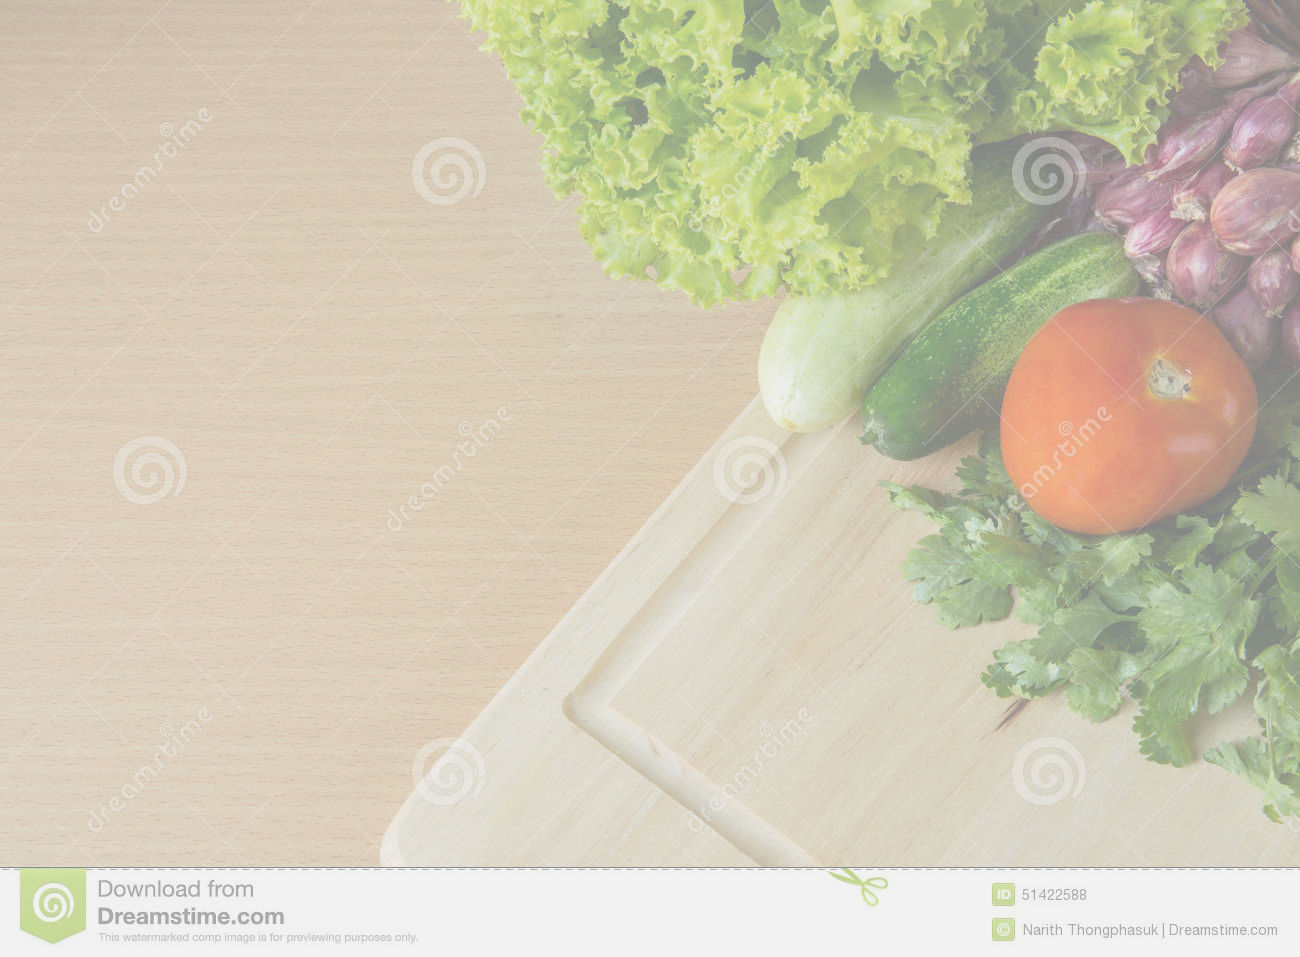
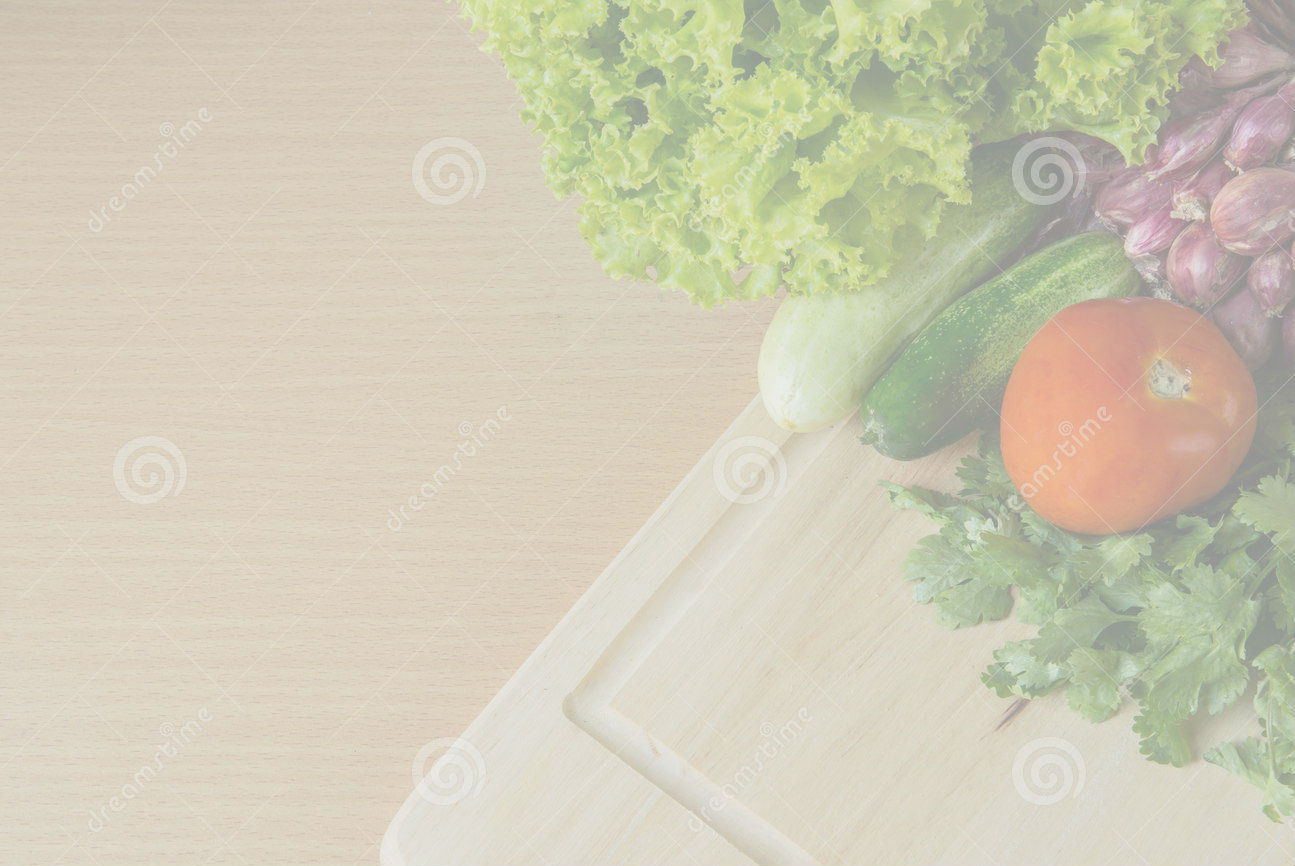
排版 2

Changed region(s): [[0.0, 0.0, 1.0, 1.0], [0.3089, 0.1559, 0.3707, 0.2182], [0.4942, 0.8106, 0.5251, 0.8418]]

diff --git a/WebContent/WebShop/css/shop_index.css b/WebContent/WebShop/css/shop_index.css
@@ -1,12 +1,17 @@
 body{
 	background: url('../images/foodbg7.jpg') no-repeat center fixed;
-	background-size:90%;
+	background-size:95%;
 /* 	opacity:0.4; */
 }
 hr {
 	height: 10px;
 	border: 0;
 	box-shadow: 0 20px 20px -20px #384145 inset;
+}
+#hot-product{
+	border-bottom: 3px solid #c0c0c0;	 
+	font: 25px;
+	font-weight:900;
 }
 .thumbnail img{	
 	width: 100%;
@@ -149,7 +154,7 @@ hr {
 	background-size: cover;
 	background-position: center;
 	width: 97%;
-	height: 500px;
+	height: 350px;
 	padding-left:0;
 	padding-right:0;
 }
@@ -168,7 +173,7 @@ hr {
 	padding: 10px;
 }
 .modal-content h1, h2, h3, h4, h6{
-	border-bottom: 1px solid #c0c0c0;	 
+	border-bottom: 2px solid #c0c0c0;	 
 }
 .modal-content h5{
 	text-align:left;

diff --git a/WebContent/WebShop/css/cartEdit.css b/WebContent/WebShop/css/cartEdit.css
@@ -1,20 +1,19 @@
 body{
 	padding-top: 90px;
-	background: url('../images/foodbg4.jpg') no-repeat center fixed;
+	background: url('../images/foodbg5.jpg') no-repeat center fixed;
 	background-size:100%;
 }
-/* img{ */
+/* .media-object{ */
 /* 	width:8em; */
 /* 	height:6em; */
 /* } */
-.media-object{
-	width:8em;
-	height:6em;
-}
 #header{
 	font-weight:800;
 	text-align:center;
 }
+/* .table{ */
+/* 	background-color:#dcdcdc; */
+/* } */
 .table th{
 	text-align:center;
 }
@@ -38,3 +37,9 @@ body{
 .price,.count,.countTd,.total,.remove{
 	text-align:center;
 }
+img{
+	width:12em;
+	height:9em;
+}
+
+

diff --git a/WebContent/WebShop/css/oderDetail.css b/WebContent/WebShop/css/oderDetail.css
@@ -1,5 +1,5 @@
 body{
-	background: url('../images/foodbg6.jpg') no-repeat center fixed;
+	background: url('../images/background.png') no-repeat center fixed;
 }
 tr{
 	background-color:white;

diff --git a/WebContent/WebShop/css/memberManage.css b/WebContent/WebShop/css/memberManage.css
@@ -40,5 +40,10 @@ label {
     margin-bottom: 0.5em;
     font-weight: bold;
 }
+hr {
+	height: 10px;
+	border: 0;
+	box-shadow: 0 10px 10px -10px #384145 inset;
+}
 
  

diff --git a/src/_14_Member/MemberDAO.java b/src/_14_Member/MemberDAO.java
@@ -185,9 +185,7 @@ public class MemberDAO {
 	
 	synchronized public String Certification(String username){
 		
-		String sql = "UPDATE Member SET "
-				+ "M_Certification = ?"
-				+ "WHERE M_Username = ?;";
+		String sql = "UPDATE `Member` SET `M_Certification`=? WHERE `M_Username`=?;";
 		
 		try(
 			Connection con = ds.getConnection();
